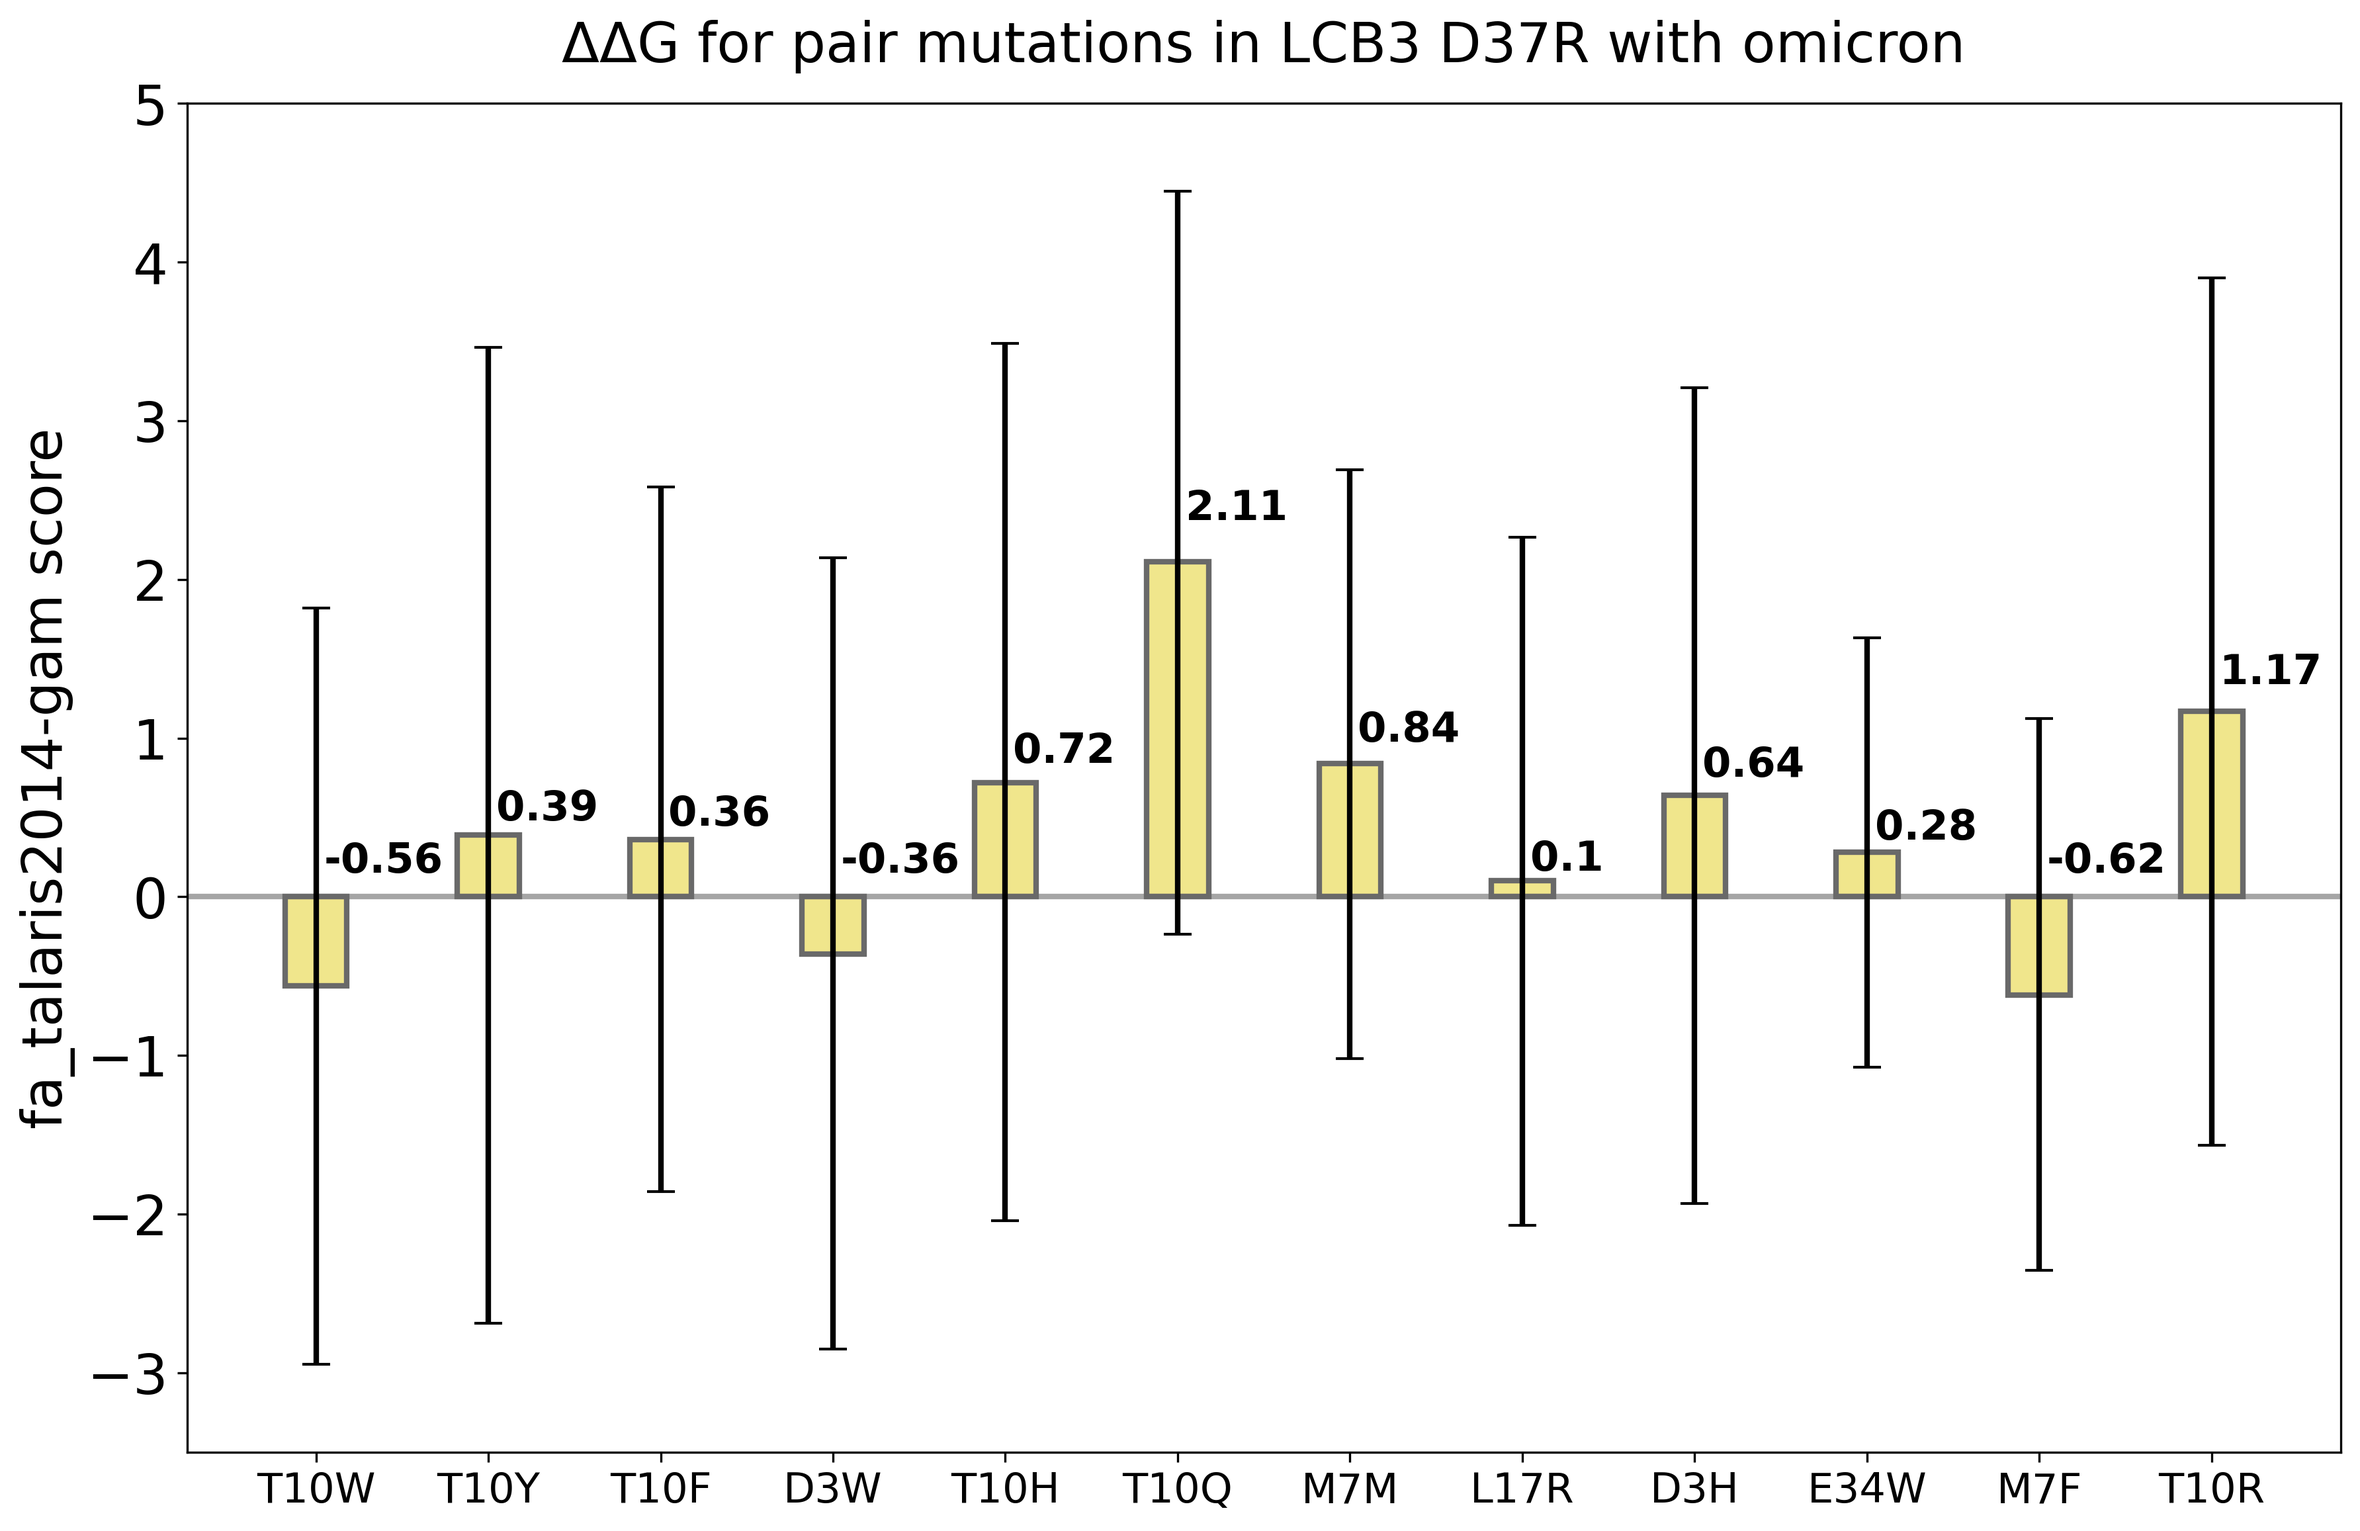
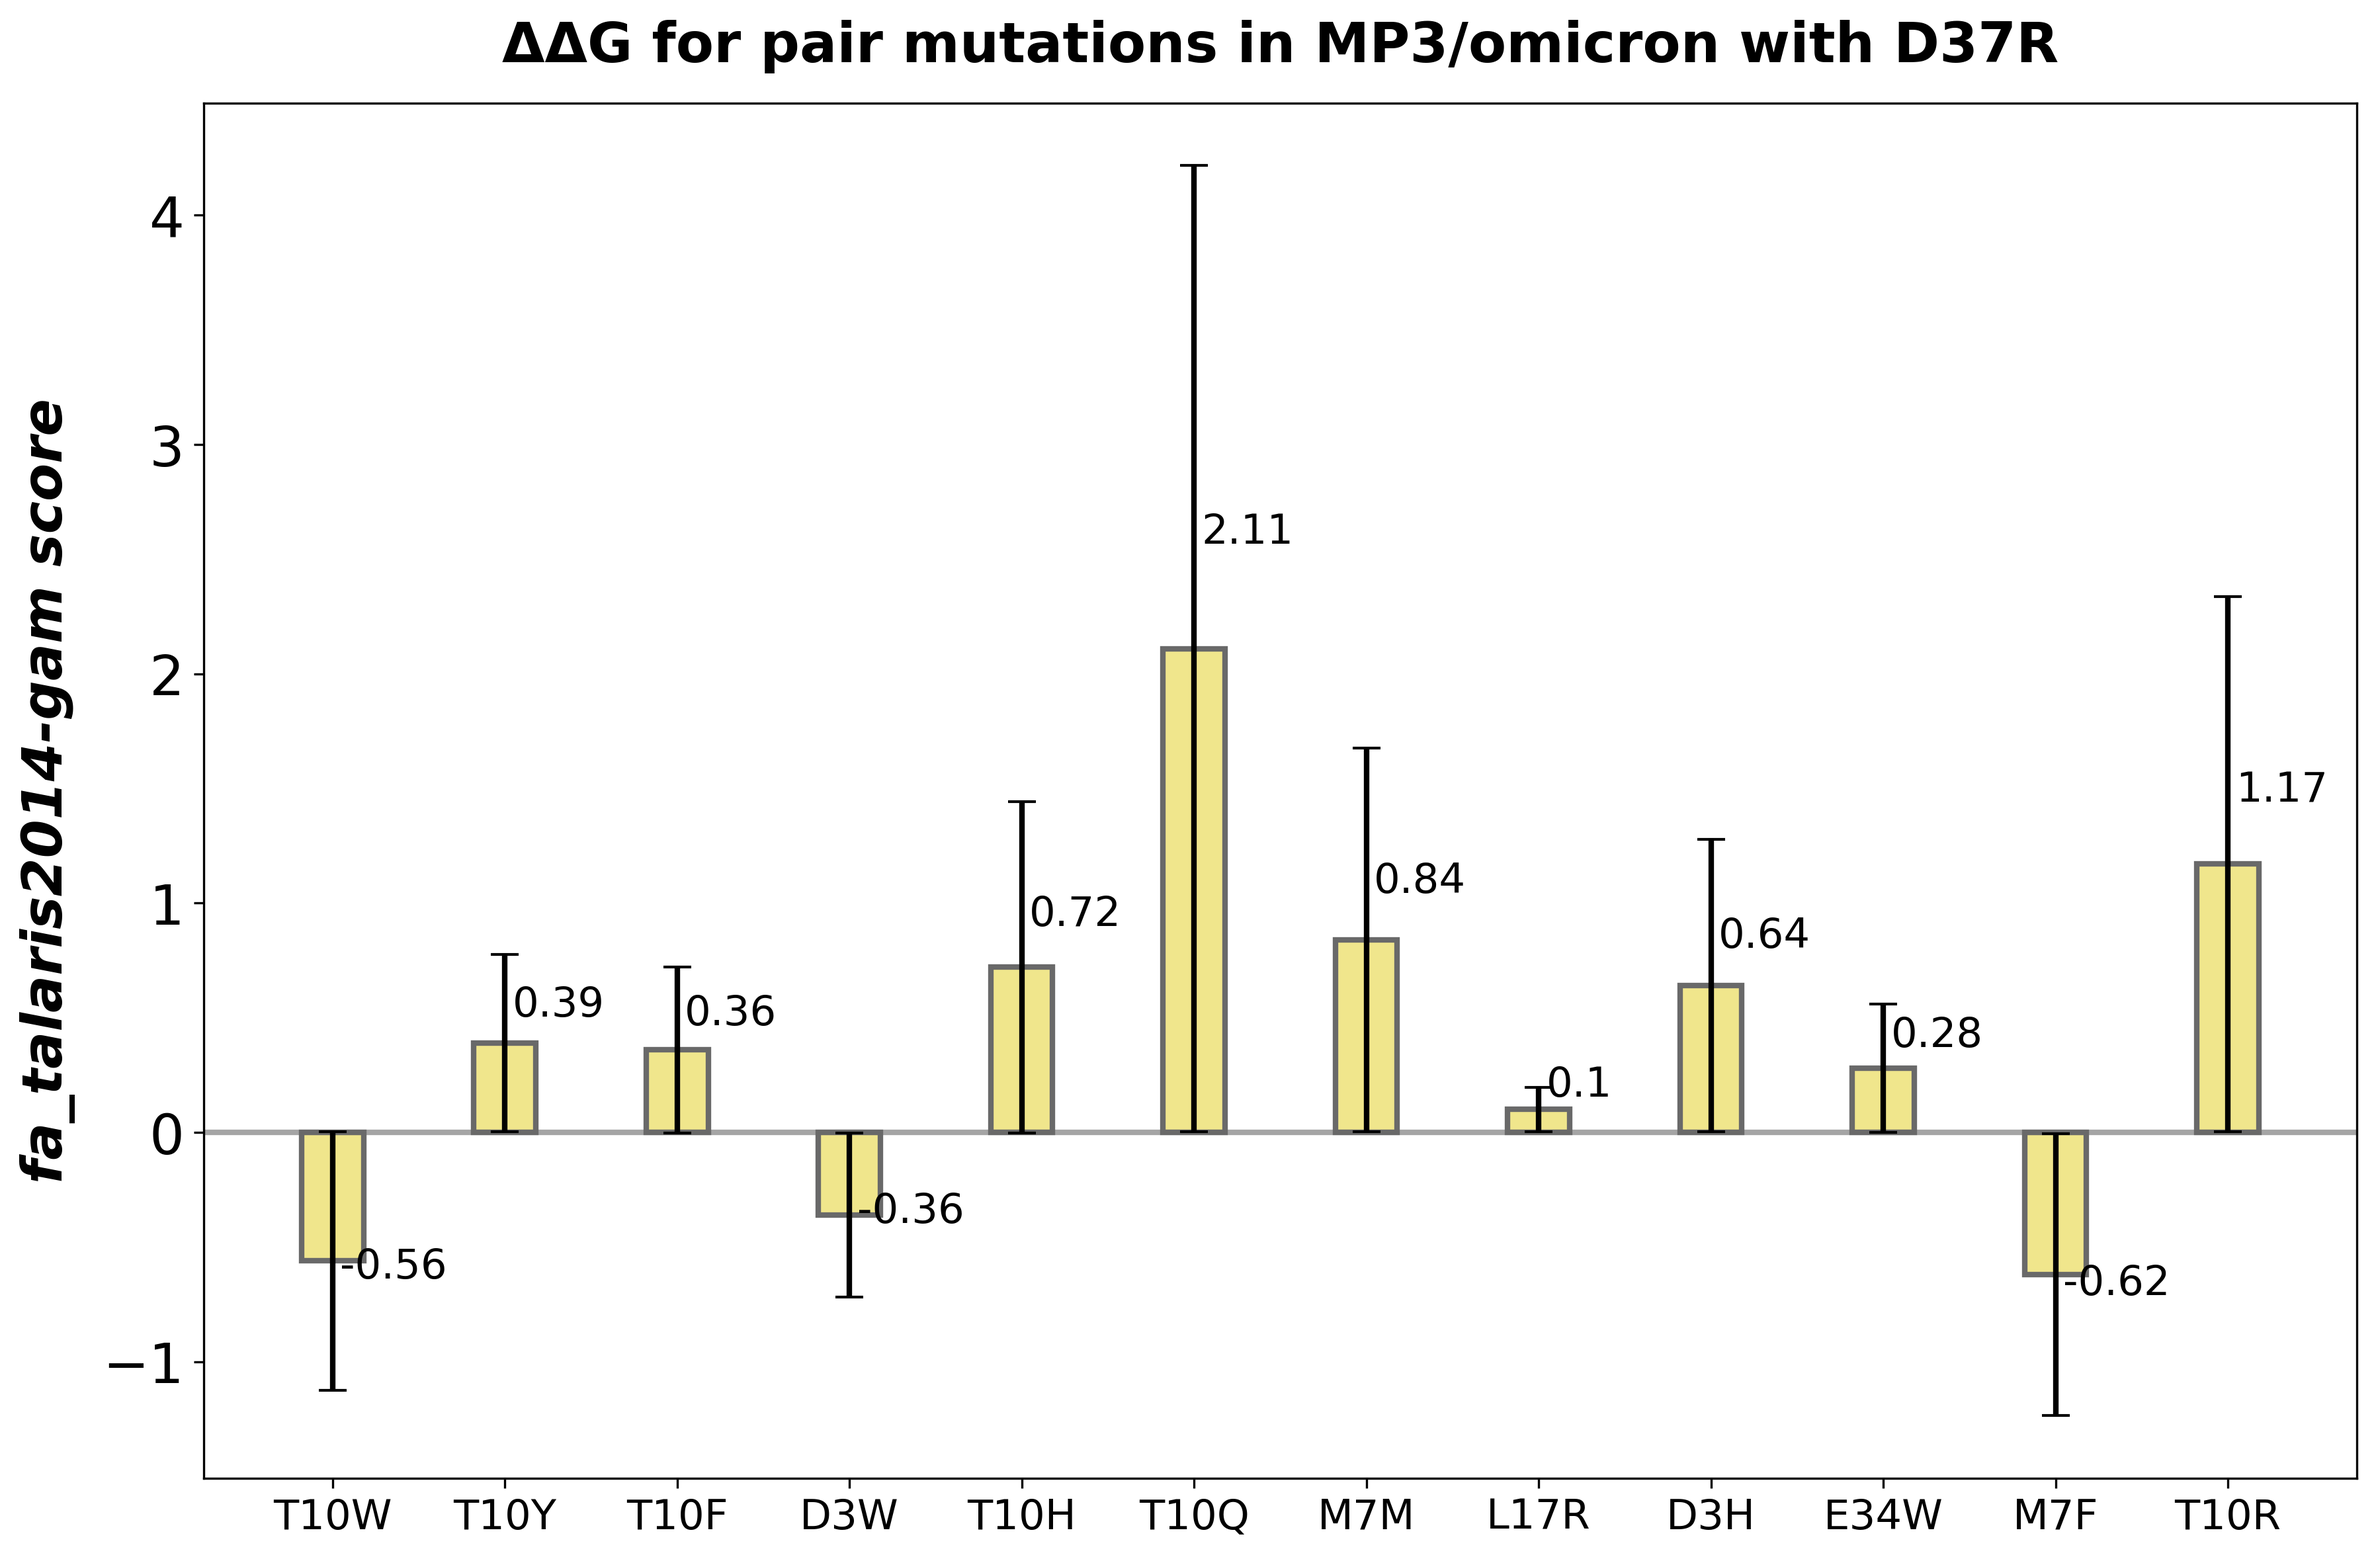
edited plot in 1_FlexddG

diff --git a/MP3/1_FlexddG/FlexddG.md b/MP3/1_FlexddG/FlexddG.md
@@ -86,7 +86,7 @@ python analyze_flex_ddG.py
 ```
 3. Draw a barplot of acquired ΔΔG values with `plot_pair_mutation_results.py`. This script accepts path to -struct_scores_results.csv and filters it prior to plotting. You can use sample data from 'tables' dir (delta_plus_MP3_pair_mutations.csv). The example command of the command-line tools script:
 ```sh
-python plot_pair_mutation_results.py -i ../tables/delta_plus_MP3_pair_mutations.csv -p pair_mutations/inputs/pdb_deltap/delta_p+lcb3_minimized.pdb -mutant delta+ -s D37R -b 35000 -n 35 -f fa_talaris2014-gam
+python plot_pair_mutation_results.py -i ../tables/delta_plus_MP3_pair_mutations.csv -p pair_mutations/inputs/pdb_deltap/delta_p+mp3_minimized.pdb -mutant delta+ -s D37R -b 35000 -n 35 -f fa_talaris2014-gam
 ```
 Note that this script operates upon assumtion of 1 mutation being fixed across all pairs.
 
